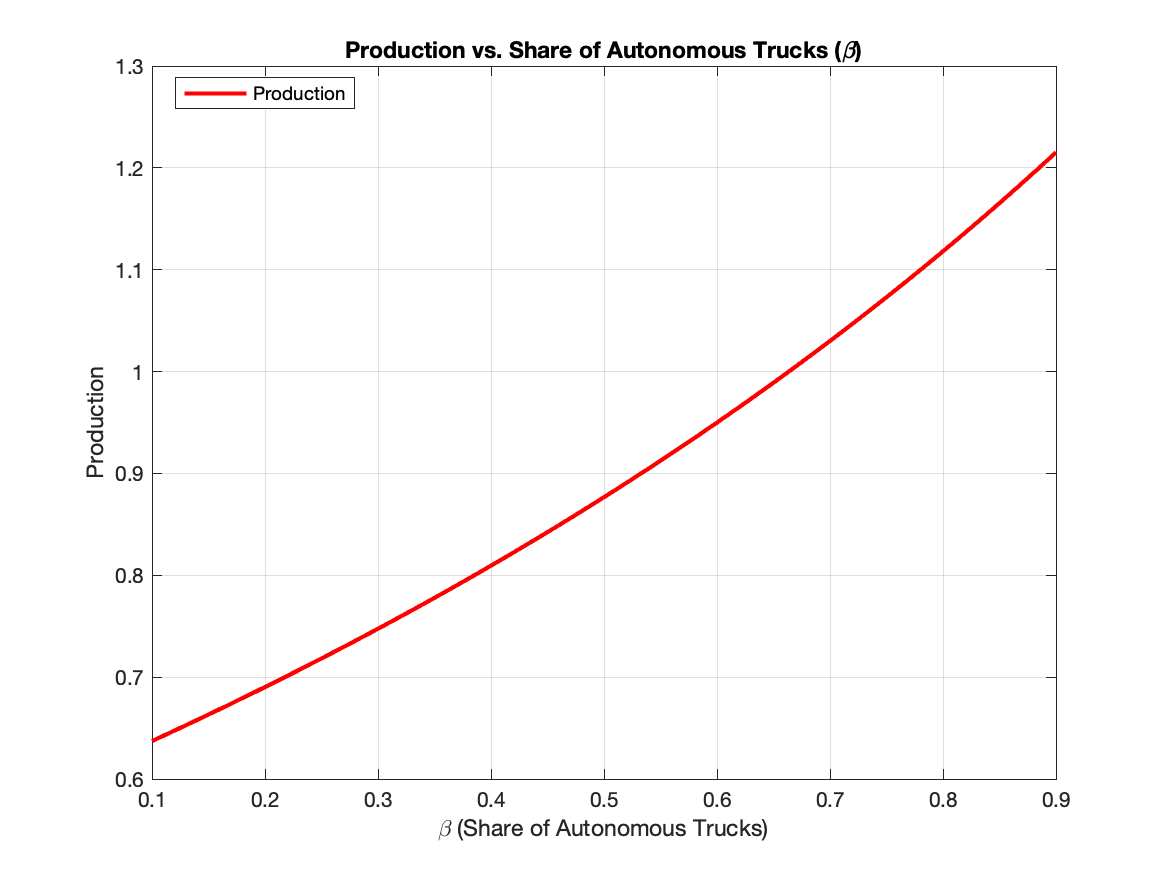
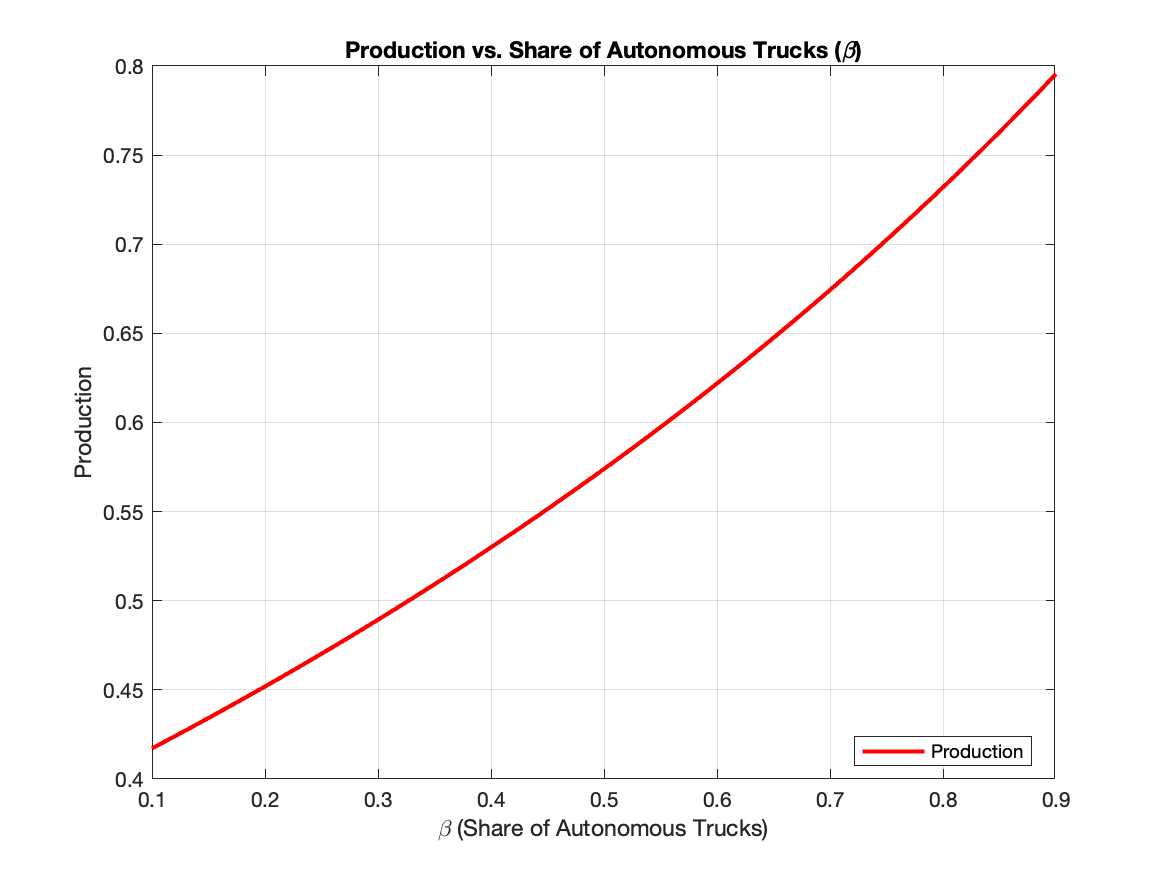
played with values, no change

diff --git a/Aggregate_Autonomous_Truck_dynamic.m b/Aggregate_Autonomous_Truck_dynamic.m
@@ -6,7 +6,7 @@ clc
 
 %% Parameters
 D = 0.9; % disutility
-Ay = 7; % productivity of good Y
+Ay = 3; % productivity of good Y
 As = 1; % productivity of short haul
 Al = 1; % productivity of long haul
 alpha = 0.5; % the share of Y
